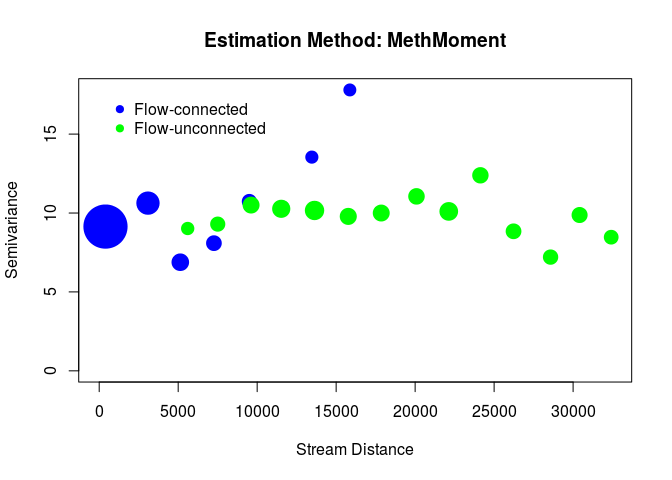
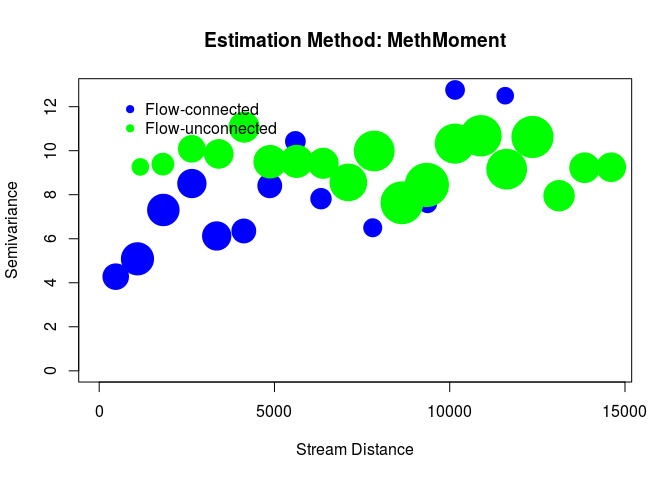
fixes to calc_edges

diff --git a/README.md b/README.md
@@ -35,9 +35,9 @@ library(openSTARS)
 initGRASS(gisBase = "/usr/lib/grass70/",
           home = tempdir(),
           override = TRUE)
-#> gisdbase    /tmp/RtmpmYsCJI 
-#> location    file19346bedd739 
-#> mapset      file19342bc36299 
+#> gisdbase    /tmp/RtmpykzCwr 
+#> location    file4b1a6e8ba6f8 
+#> mapset      file4b1a31ff93fd 
 #> rows        1 
 #> columns     1 
 #> north       1 
@@ -60,8 +60,8 @@ import_data(dem = dem_path, sites = sites_path)
 #> WARNING: Raster map <dem> already exists and will be overwritten
 
 gmeta()
-#> gisdbase    /tmp/RtmpmYsCJI 
-#> location    file19346bedd739 
+#> gisdbase    /tmp/RtmpykzCwr 
+#> location    file4b1a6e8ba6f8 
 #> mapset      PERMANENT 
 #> rows        450 
 #> columns     500 
@@ -122,23 +122,23 @@ calc_edges()
 ```r
 edges <- readVECT('edges', ignore.stderr = TRUE)
 head(edges@data)
-#>   cat rid type_code OBJECTID cat_o netID    upDist topo_dim H2OArea
-#> 1   1   1         0        1    19    20  102.4264        2  246.15
-#> 2   2   2         0        2    17    20  102.4264        2  246.15
-#> 3   3   3         1        3    20    20  102.4264        2  444.60
-#> 4   4   4         0        4    15    15 1610.9545        1  246.15
-#> 5   5   5         0        5    23    26 2488.2338        1  246.15
-#> 6   6   6         0        6     7    26 2488.2338        1  246.15
-#>   rcaArea
-#> 1  100.80
-#> 2   97.65
-#> 3   98.37
-#> 4  178.65
-#> 5  171.63
-#> 6   98.73
+#>   cat rid type_code OBJECTID cat_o netID topo_dim    Lenght sourceDist
+#> 1   1   0         0        0    19    20        2  102.4264   102.4264
+#> 2   2   1         0        1    17    20        2   90.0000    90.0000
+#> 3   3   2         1        2    20    20        1 1081.2489  1183.6753
+#> 4   4   3         0        3    15    15        1 1610.9545  1610.9545
+#> 5   5   4         0        4    23    26        2  504.8528   504.8528
+#> 6   6   5         0        5     7    26        2  607.2792   607.2792
+#>     upDist H2OArea rcaArea
+#> 1 1183.675  246.15  100.80
+#> 2 1171.249  246.15   97.65
+#> 3 1081.249  444.60   98.37
+#> 4 1610.955  246.15  178.65
+#> 5 2385.807  246.15  171.63
+#> 6 2488.234  246.15   98.73
 ```
 
-`edges` now holds the derived network plus attributes needed for SSN (segment id, network id, upstream distance, watershed area, river contributing area, toplogical dimension)
+`edges` now holds the derived network plus attributes needed for SSN (segment id, network id, upstream distance ( distance from outlet), watershed area, river contributing area, toplogical dimension, segment length, distance from source)
 
 
 #### Prepare sites:
@@ -162,12 +162,12 @@ points(sites, pch = 16, col = cols)
 ```r
 head(sites@data)
 #>   cat cat_ value       dist       xm       ym pid locID netID rid   upDist
-#> 1   1    1     1  79.907826 631046.1 226074.1   1     1   162 114 22387.92
-#> 2   2    2     2  76.098623 631495.3 225849.5   2     2   162 114 21880.94
-#> 3   3    3     1 112.904797 631787.3 225580.0   3     3   162 114 21511.53
-#> 4   4    4     1  61.158605 632011.9 225175.7   4     4   162 114 21064.54
-#> 5   5    5     1  72.041077 631203.4 224771.5   5     5   162 115 21721.53
-#> 6   6    6     2   4.226159 631540.2 224883.8   6     6   162 115 21256.97
+#> 1   1    1     1  79.907826 631046.1 226074.1   1     1   162 113 22387.92
+#> 2   2    2     2  76.098623 631495.3 225849.5   2     2   162 113 21880.94
+#> 3   3    3     1 112.904797 631787.3 225580.0   3     3   162 113 21511.53
+#> 4   4    4     1  61.158605 632011.9 225175.7   4     4   162 113 21064.54
+#> 5   5    5     1  72.041077 631203.4 224771.5   5     5   162 114 21721.53
+#> 6   6    6     2   4.226159 631540.2 224883.8   6     6   162 114 21256.97
 #>   H2OArea
 #> 1 1047600
 #> 2 1656900
@@ -190,12 +190,12 @@ Now the sites are snapped to the network and additional attributes (pid, locID, 
 binaries <- calc_binary()
 head(binaries[[1]])
 #>    rid                   binaryID
-#> 1  114 11011100110111010111101110
-#> 2  111    11011100110111010111100
-#> 3  115 11011100110111010111101111
-#> 6  106         110111001101110010
-#> 8   97                  110111000
-#> 10 120     1101110011011101011111
+#> 1  113 10001111101110001111110100
+#> 2  110    10001111101110001111111
+#> 3  114 10001111101110001111110101
+#> 6  105         100011111011100100
+#> 8   96                  100011110
+#> 10 119     1000111110111000111110
 ```
 
 
@@ -205,7 +205,7 @@ head(binaries[[1]])
 ```r
 ssn_dir <- file.path(tempdir(), 'nc.ssn')
 ssn_dir
-#> [1] "/tmp/RtmpmYsCJI/nc.ssn"
+#> [1] "/tmp/RtmpykzCwr/nc.ssn"
 export_ssn(ssn_dir, binary = binaries)
 list.files(ssn_dir)
 #>  [1] "edges.dbf"    "edges.prj"    "edges.shp"    "edges.shx"   
@@ -234,7 +234,7 @@ plot(ssn_obj, 'value')
 createDistMat(ssn_obj, o.write = TRUE)
 dmats <- getStreamDistMat(ssn_obj)
 
-ssn_obj.Torg <- Torgegram(ssn_obj, "value", nlag = 20)
+ssn_obj.Torg <- Torgegram(ssn_obj, "value", nlag = 20, maxlag = 15000)
 plot(ssn_obj.Torg)
 ```
 
@@ -243,8 +243,9 @@ plot(ssn_obj.Torg)
 ```r
 
 names(ssn_obj@data)
-#>  [1] "cat"       "rid"       "type_code" "OBJECTID"  "cat_o"    
-#>  [6] "netID"     "upDist"    "topo_dim"  "H2OArea"   "rcaArea"
+#>  [1] "cat"        "rid"        "type_code"  "OBJECTID"   "cat_o"     
+#>  [6] "netID"      "topo_dim"   "Lenght"     "sourceDist" "upDist"    
+#> [11] "H2OArea"    "rcaArea"
 names(ssn_obj)
 #> $Obs
 #>  [1] "cat"     "cat_"    "value"   "dist"    "xm"      "ym"      "pid"    
@@ -252,58 +253,79 @@ names(ssn_obj)
 ssn_obj <- additive.function(ssn_obj, "H2OArea", "computed.afv")
 
 # non-spatial model
-ssn_obj.glmssn0 <- glmssn(value ~ H2OArea, ssn.object = ssn_obj,
+ssn_obj.glmssn0 <- glmssn(value ~ 1, ssn.object = ssn_obj,
                             CorModels = NULL)
 summary(ssn_obj.glmssn0)
 #> 
 #> Call:
-#> glmssn(formula = value ~ H2OArea, ssn.object = ssn_obj, CorModels = NULL)
+#> glmssn(formula = value ~ 1, ssn.object = ssn_obj, CorModels = NULL)
 #> 
 #> Residuals:
-#>    Min     1Q Median     3Q    Max 
-#>     NA -2.400 -1.135  2.796     NA 
+#>     Min      1Q  Median      3Q     Max 
+#>      NA -2.6071 -0.6071  3.3929      NA 
 #> 
 #> Coefficients:
-#>              Estimate Std. Error t value Pr(>|t|)    
-#> (Intercept) 4.014e+00  3.753e-01  10.698  < 2e-16 ***
-#> H2OArea     7.393e-08  2.411e-08   3.066  0.00294 ** 
+#>             Estimate Std. Error t value Pr(>|t|)    
+#> (Intercept)   4.6071     0.3375   13.65   <2e-16 ***
 #> ---
 #> Signif. codes:  0 '***' 0.001 '**' 0.01 '*' 0.05 '.' 0.1 ' ' 1
 #> 
 #> Covariance Parameters:
 #>  Covariance.Model Parameter Estimate
-#>            Nugget   parsill     8.69
+#>            Nugget   parsill     9.57
 #> 
-#> Residual standard error: 2.947448
-#> Generalized R-squared: 0.102845
+#> Residual standard error: 3.093002
+#> Generalized R-squared: -4.440892e-16
 # same as
-summary(lm(value ~ H2OArea, getSSNdata.frame(ssn_obj)))
+summary(lm(value ~ 1, getSSNdata.frame(ssn_obj)))
 #> 
 #> Call:
-#> lm(formula = value ~ H2OArea, data = getSSNdata.frame(ssn_obj))
+#> lm(formula = value ~ 1, data = getSSNdata.frame(ssn_obj))
 #> 
 #> Residuals:
-#>    Min     1Q Median     3Q    Max 
-#> -3.674 -2.400 -1.135  2.796  5.838 
+#>     Min      1Q  Median      3Q     Max 
+#> -3.6071 -2.6071 -0.6071  3.3929  5.3929 
 #> 
 #> Coefficients:
-#>              Estimate Std. Error t value Pr(>|t|)    
-#> (Intercept) 4.014e+00  3.753e-01  10.698  < 2e-16 ***
-#> H2OArea     7.393e-08  2.411e-08   3.066  0.00294 ** 
+#>             Estimate Std. Error t value Pr(>|t|)    
+#> (Intercept)   4.6071     0.3375   13.65   <2e-16 ***
 #> ---
 #> Signif. codes:  0 '***' 0.001 '**' 0.01 '*' 0.05 '.' 0.1 ' ' 1
 #> 
-#> Residual standard error: 2.947 on 82 degrees of freedom
+#> Residual standard error: 3.093 on 83 degrees of freedom
 #>   (3 observations deleted due to missingness)
-#> Multiple R-squared:  0.1028,	Adjusted R-squared:  0.0919 
-#> F-statistic:   9.4 on 1 and 82 DF,  p-value: 0.002938
 
 
 # # # spatial model
 # doesn't work
-# ssn_obj.glmssn1 <- glmssn(value ~ H2OArea, ssn.object = ssn_obj,
-#                             CorModels = c("Exponential.Euclid"),
-#                           addfunccol = "computed.afv")
+ssn_obj.glmssn1 <- glmssn(value ~ 1, ssn.object = ssn_obj,
+                            CorModels = c("Exponential.Euclid"),
+                          addfunccol = "computed.afv")
+# other corModels do not work (taildown, tailup... why?)
+summary(ssn_obj.glmssn1)
+#> 
+#> Call:
+#> glmssn(formula = value ~ 1, ssn.object = ssn_obj, CorModels = c("Exponential.Euclid"), 
+#>     addfunccol = "computed.afv")
+#> 
+#> Residuals:
+#>     Min      1Q  Median      3Q     Max 
+#>      NA -2.8317 -0.8317  3.1683      NA 
+#> 
+#> Coefficients:
+#>             Estimate Std. Error t value Pr(>|t|)    
+#> (Intercept)   4.8317     0.4594   10.52   <2e-16 ***
+#> ---
+#> Signif. codes:  0 '***' 0.001 '**' 0.01 '*' 0.05 '.' 0.1 ' ' 1
+#> 
+#> Covariance Parameters:
+#>    Covariance.Model Parameter Estimate
+#>  Exponential.Euclid   parsill     8.71
+#>  Exponential.Euclid     range  1368.31
+#>              Nugget   parsill     1.01
+#> 
+#> Residual standard error: 3.118736
+#> Generalized R-squared: 0
 ```
 
 
